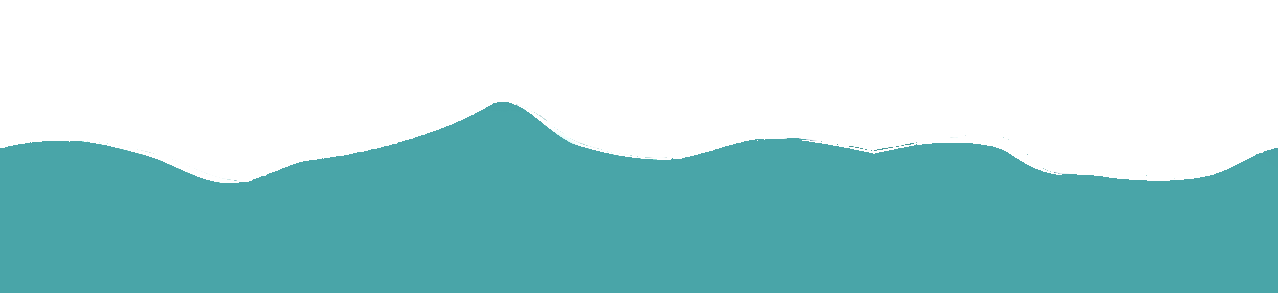
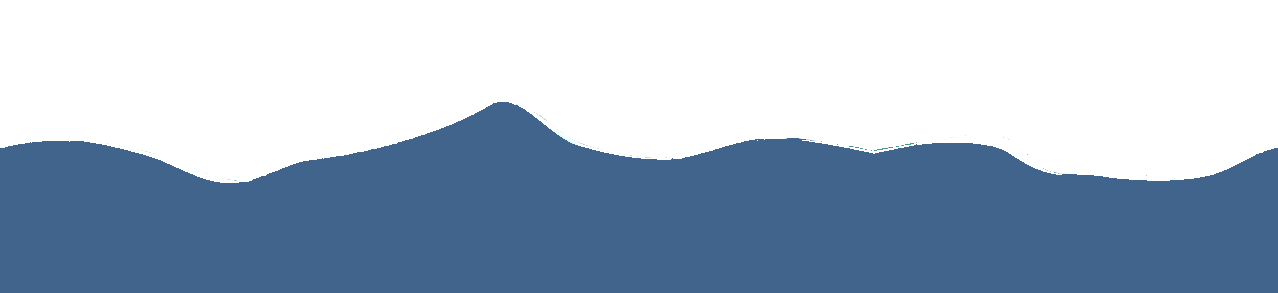
wave beta

diff --git a/src/app/components/wavesParallax.tsx b/src/app/components/wavesParallax.tsx
@@ -1,14 +1,40 @@
 'use client'
 
-import { Box } from "@mui/material";
+import { Box, keyframes } from "@mui/material";
 import useScroll from "@/hooks/useScroll";
+
+const waveAnimate = keyframes`
+    0% {
+    background-position-x: 0px;
+  }
+
+  100% {
+    background-position-x: 1278px;
+  }
+`;
+
+const waveAnimateReverse = keyframes`
+    0% {
+    background-position-x: 0px;
+  }
+
+  100% {
+    background-position-x: -1278px;
+  }
+`;
 
 export default function WavesParallax() {
   const [yPos] = useScroll();
-
   return (
     <>
-      <Box sx={{ position: 'relative', pointerEvents: 'none' }}>
+      <Box 
+        sx={{ 
+          position: 'relative', 
+          pointerEvents: 'none', 
+          height: `${600 - yPos * 18}px`,
+          zIndex: 50,
+        }}
+      >
         <Box 
           sx={{ 
             position: 'absolute', 
@@ -18,9 +44,11 @@ export default function WavesParallax() {
             backgroundSize: '1278px 293px',
             zIndex: 6,
             bottom: 0,
-            // bottom: `${(70 - (16 * 18) + 150) - yPos * 5 }px`
+            animation: `${waveAnimate} 80s linear infinite`,
+            animationDelay: '-5s', 
           }}
         />
+        
         <Box 
           sx={{ 
             position: 'absolute', 
@@ -29,10 +57,12 @@ export default function WavesParallax() {
             background: `url('/images/waves/2_layer.png')`,
             backgroundSize: '1278px 293px',
             zIndex: 5,
-            bottom: 0,
-            // bottom: `${(100 - (16 * 18) + 150) - yPos * 10 }px`
+            animation: `${waveAnimateReverse} 90s linear infinite`,
+            animationDelay: '-25s', 
+            bottom: `${100 - yPos * 6 }px`
           }}
         />
+      
         <Box 
           sx={{ 
             position: 'absolute', 
@@ -41,10 +71,12 @@ export default function WavesParallax() {
             background: `url('/images/waves/3_layer.png')`,
             backgroundSize: '1278px 293px',
             zIndex: 4,
-            bottom: 0,
-            // bottom: `${(120 - (16 * 18) + 200) - yPos * 20 }px`
+            animation: `${waveAnimate} 100s linear infinite`,
+            animationDelay: '-5s', 
+            bottom: `${250 - yPos * 14 }px`
           }}
         /> 
+        
         <Box 
           sx={{ 
             position: 'absolute', 
@@ -53,11 +85,13 @@ export default function WavesParallax() {
             background: `url('/images/waves/4_layer.png')`,
             backgroundSize: '1278px 293px',
             zIndex: 3,
-            bottom: 0,
-            // bottom: `${(140 - (16 * 18) + 250) - yPos * 25 }px`,
+            animation: `${waveAnimateReverse} 110s linear infinite`,
+            animationDelay: '-15s', 
+            bottom: `${300 - yPos * 18 }px`
           }}
         />
       </Box>
+      
     </>   
   )
 }

diff --git a/src/app/page.tsx b/src/app/page.tsx
@@ -13,7 +13,7 @@ import TreesParallax from "./components/aboutUs-main/treesParallax";
 import GrassParallax from "./components/grassParallax";
 import ServicesMain from "./components/services-main";
 import WavesParallax from "./components/wavesParallax";
-import { grey } from "@mui/material/colors";
+import Waves from "./components/waves";
 
 const amatic_SC = Amatic_SC({ subsets: ['cyrillic'], weight: ['400', '700'] })
 const theme = createTheme({
@@ -45,7 +45,7 @@ export default function Home() {
         <GrassParallax />
       </Box>
 
-      <Box sx={{ background: 'linear-gradient(#C8CC92, #C2EA94)', position: 'relative', zIndex: 30 }}>
+      <Box sx={{ background: 'linear-gradient(#C8CC92, #D0D6B5)', position: 'relative', zIndex: 30 }}>
         <Container maxWidth='lg' sx={{ position: 'relative', overflow: 'hidden' }}>
           <Head TextColor={clr.dark} HoverColor={clr.primary} TextColorOnHover={clr.light} />
           <ServicesMain />
@@ -53,7 +53,7 @@ export default function Home() {
         <WavesParallax/>
       </Box>  
 
-      <Box sx={{ background: 'linear-gradient(#02A181, #191e27)', position: 'relative', zIndex: 40, height: '1000px' }}>
+      <Box sx={{ background: 'linear-gradient(#2E5077, #191e27)', position: 'relative', zIndex: 40, height: '1000px' }}>
         <Container maxWidth='lg' sx={{ position: 'relative', overflow: 'hidden' }}>
           <Head TextColor={clr.light} HoverColor={clr.secondary3} TextColorOnHover={clr.dark} />
         </Container>
@@ -62,5 +62,15 @@ export default function Home() {
     </ThemeProvider>
   )
 }
+// #D0D6B5
+// #191e27
+
+// #2E5077
 // #63B4D1
 // #C2EA94
+// #87A0B2
+
+// #6D98BA
+// #9AADBF
+
+// <Waves />

diff --git a/src/app/components/waves.tsx b/src/app/components/waves.tsx
@@ -1,18 +1,37 @@
-import { Box } from "@mui/material";
+import { Box, keyframes } from "@mui/material";
 import { clr } from "../colors";
+import useScroll from "@/hooks/useScroll";
 
-interface WavesProps {
-  yPos: number; 
-}
+const waveAnimate = keyframes`
+    0% {
+    background-position-x: 0px;
+  }
 
-export default function Waves({ yPos }: WavesProps) {
+  100% {
+    background-position-x: 1278px;
+  }
+`;
+
+const waveAnimateReverse = keyframes`
+    0% {
+    background-position-x: 0px;
+  }
+
+  100% {
+    background-position-x: -1278px;
+  }
+`;
+
+export default function Waves() {
+
+  const [yPos] = useScroll();
 
   const waveBaseSXProps = { 
     position: 'absolute', 
     left: '0', 
     width: '100%', 
     height: '100px', 
-    background: `url('/images/wave2.png')`, 
+    background: `url('/images/waves/old_wave.png')`, 
     backgroundSize: '1000px 100px' 
   }
  

diff --git a/src/app/components/services-main.tsx b/src/app/components/services-main.tsx
@@ -15,8 +15,8 @@ export default function ServicesMain() {
         position: 'relative', 
         display: 'flex', 
         flexDirection: 'column', 
-        height: '1200px',
-        border: '1px solid red'
+        // height: '1200px',
+        // border: '1px solid red'
       }}
     >
 
@@ -27,7 +27,7 @@ export default function ServicesMain() {
       <Box 
         sx={{ 
           position: 'relative', 
-          border: '1px solid black', 
+          // border: '1px solid black', 
           width: '100%', 
           height: '600px', 
           zIndex: 20 
